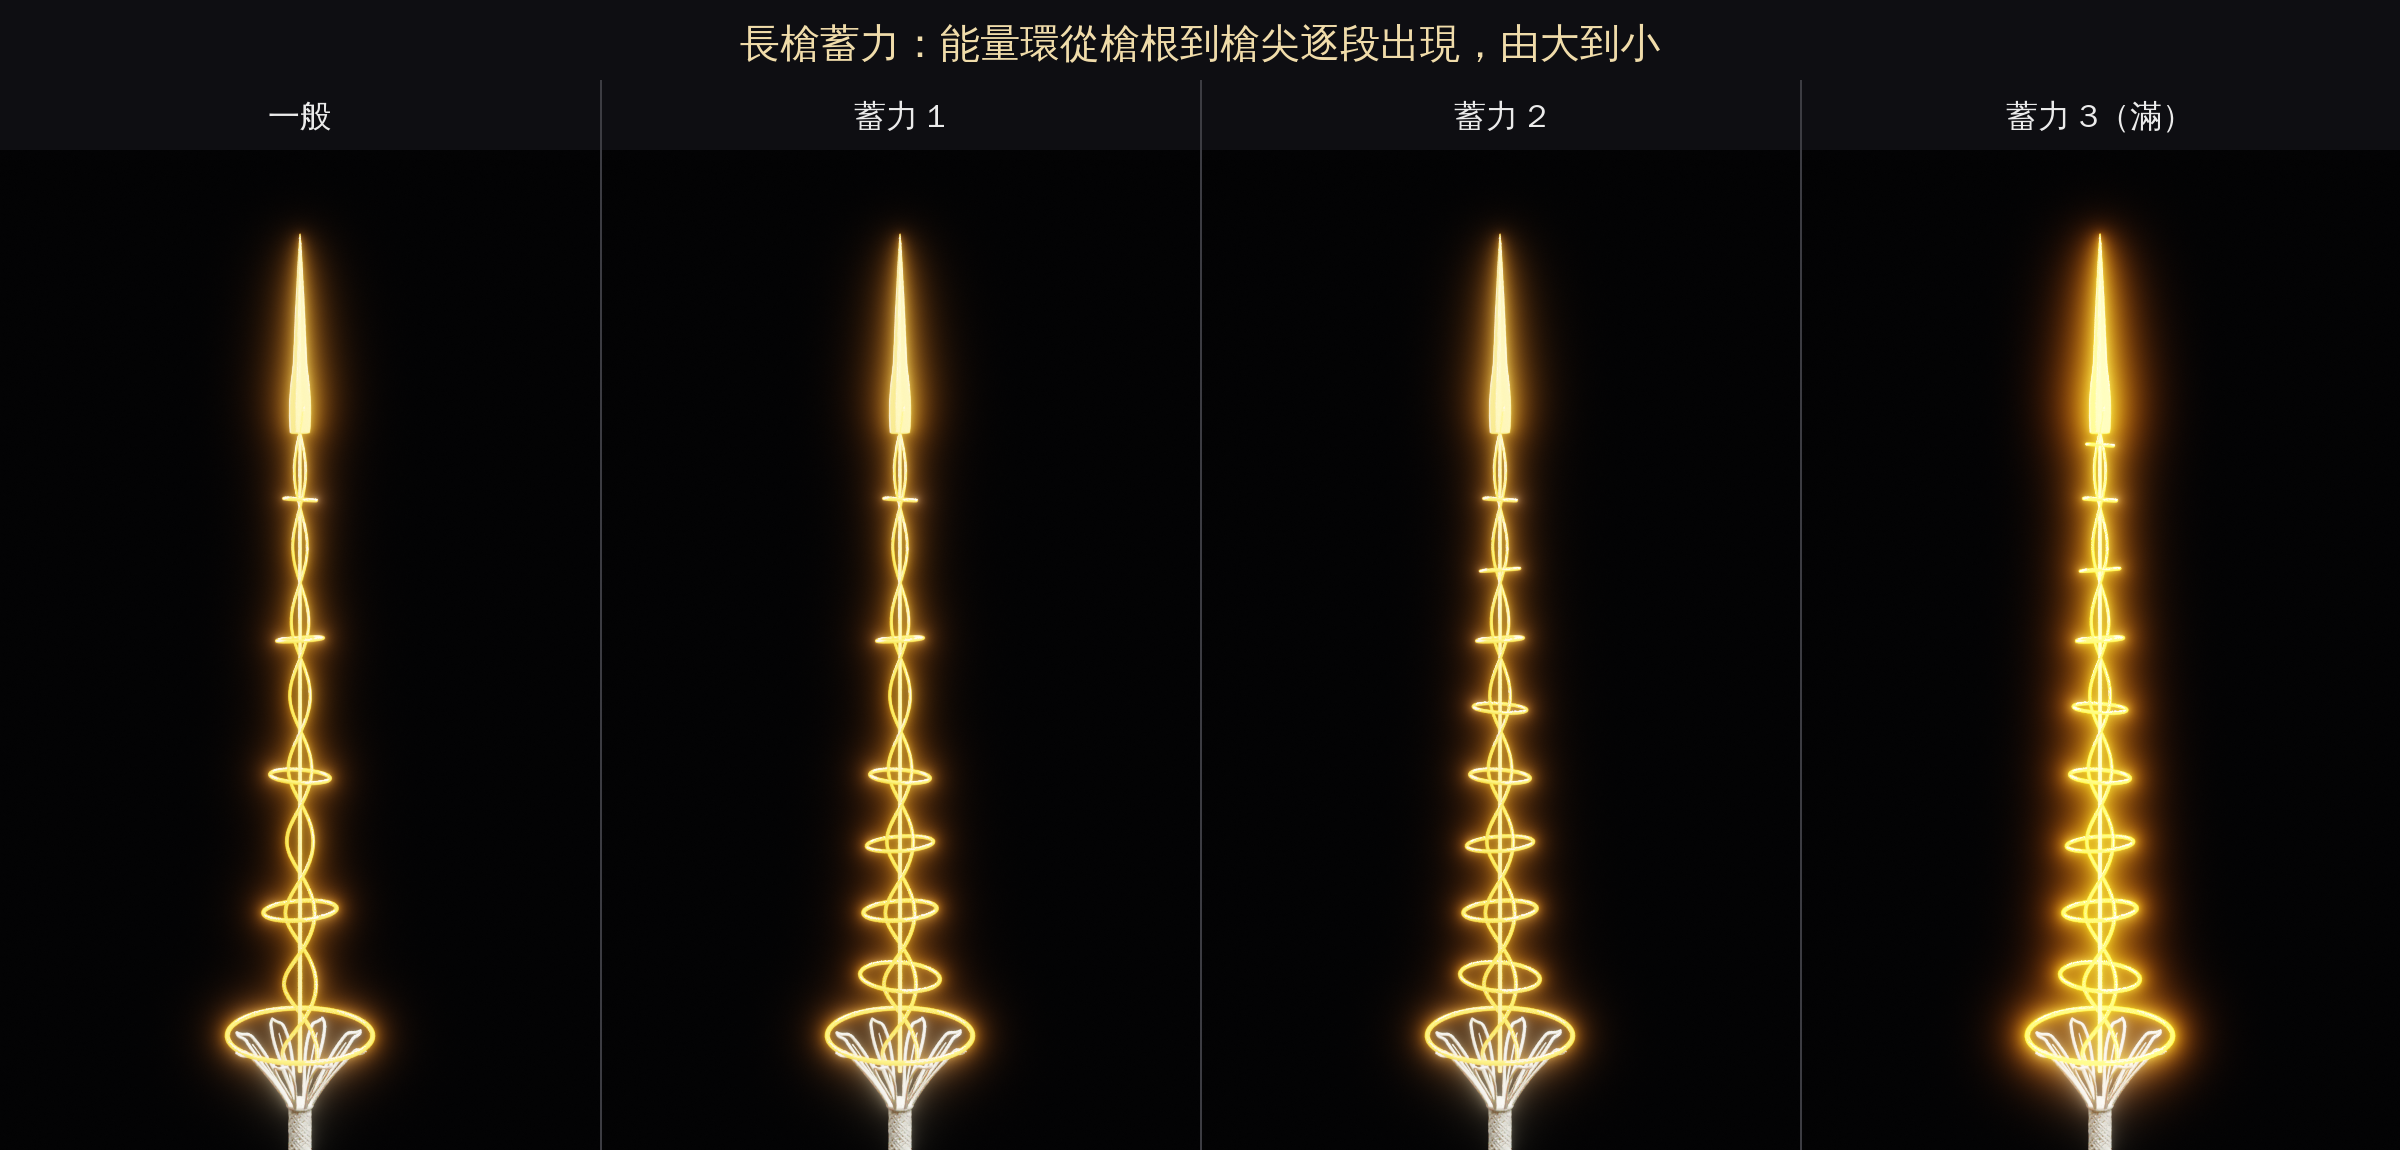
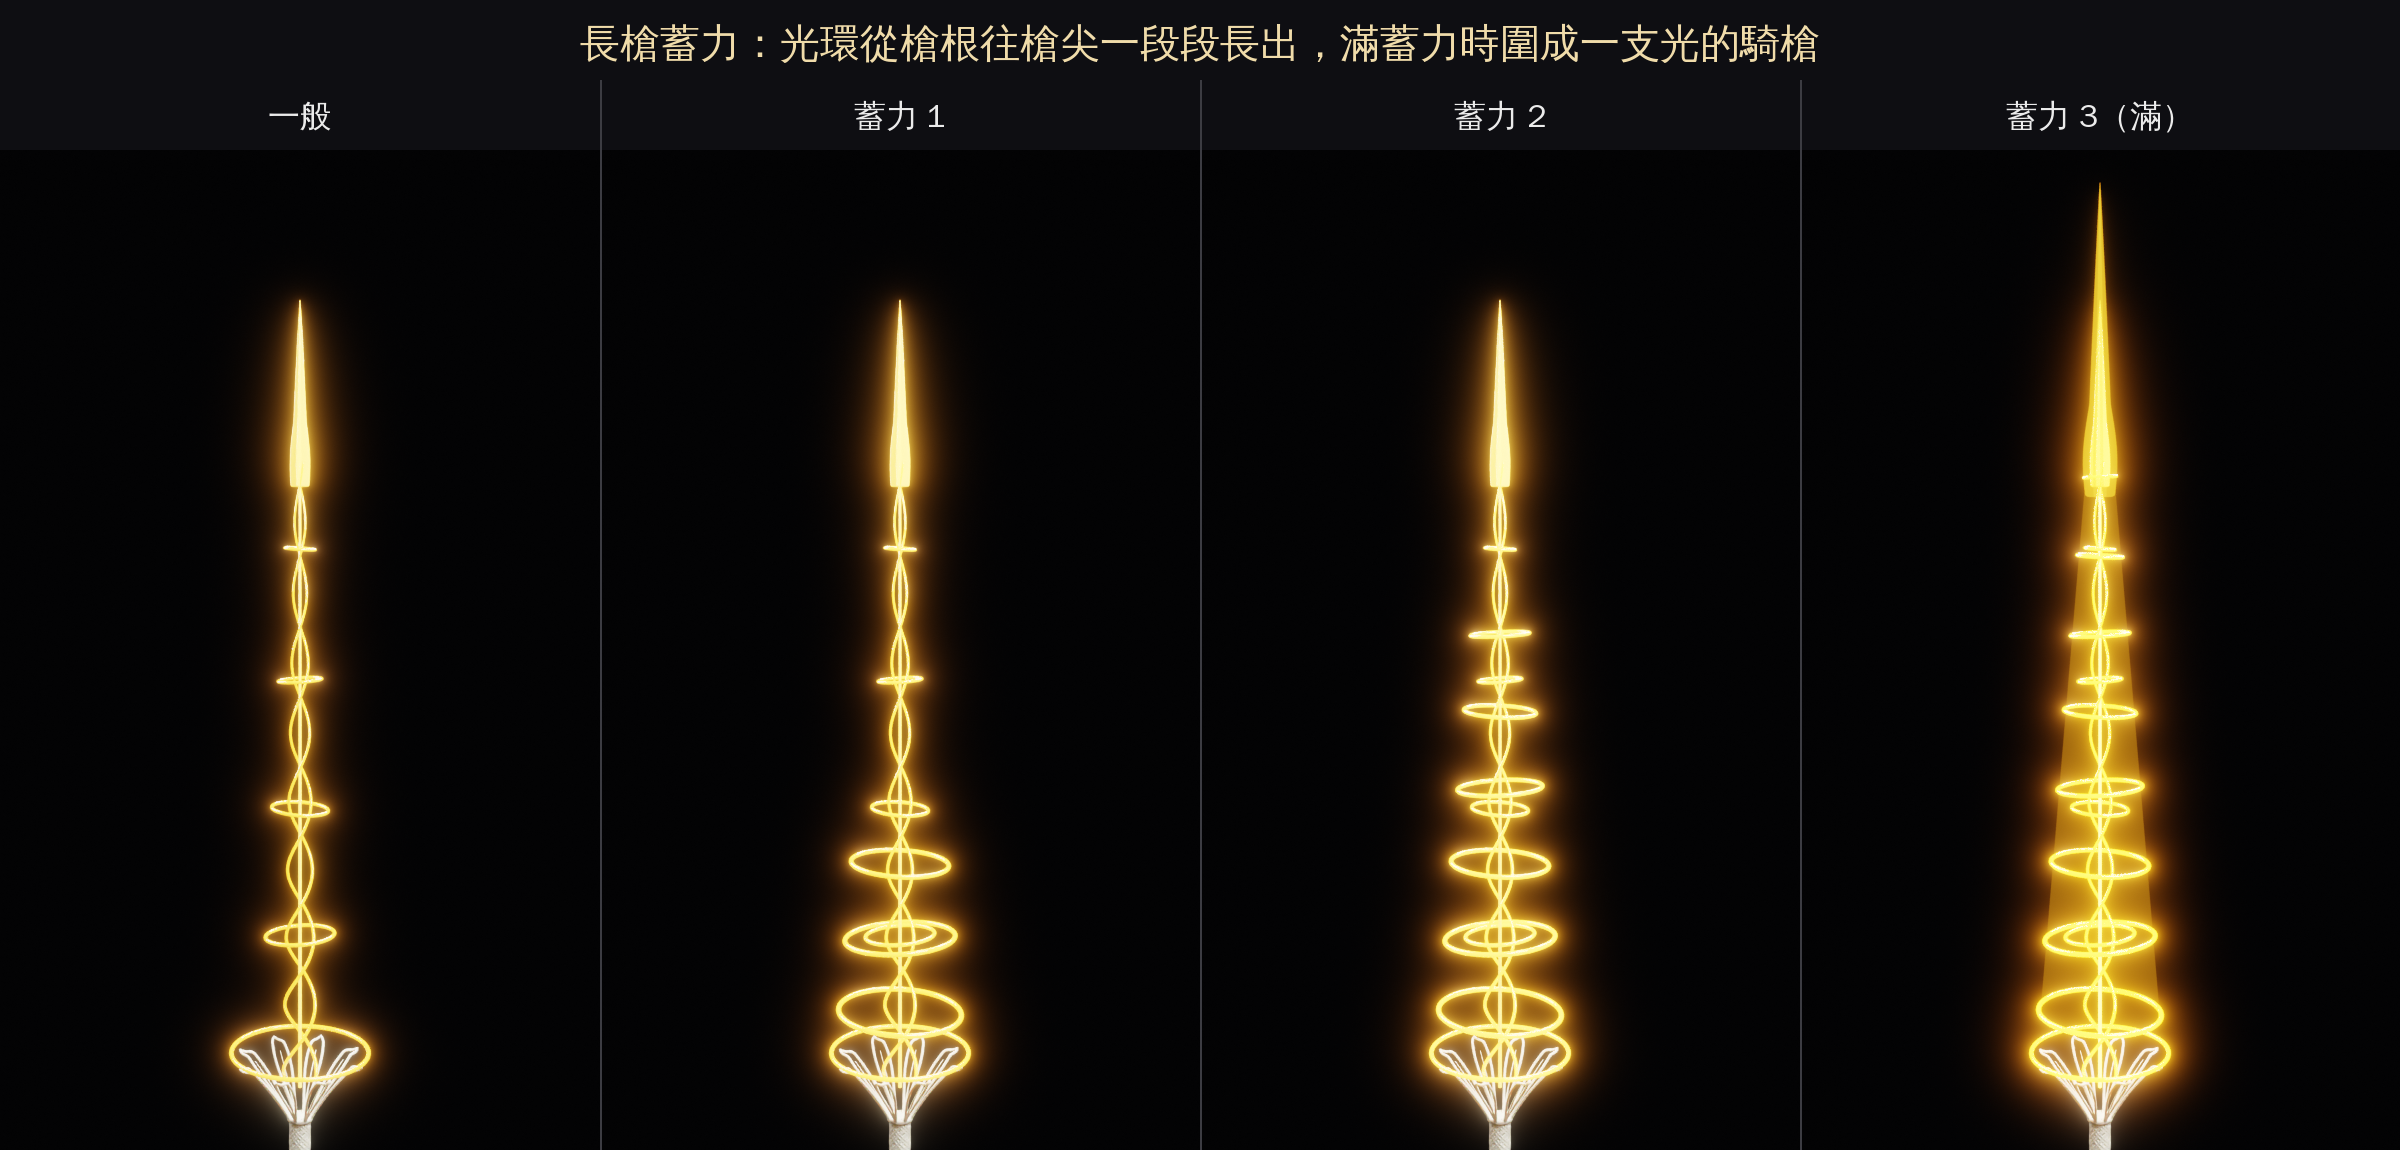
Lance charge: a cone of large rings grows root to tip, brighter each level, full charge becomes a lance of light
The first version only filled small rings in between the spear's own rings and
barely changed; the user wanted a sense of power while charging.

Claude-Session: https://claude.ai/code/session_01V7beVj5sW76yDfxRJh6Mw7

diff --git a/mods/miquella/prototypes/scripts/states.py b/mods/miquella/prototypes/scripts/states.py
@@ -8,7 +8,7 @@ Sets:
   great_sword_charge  normal (gold) / charge 1 (bright gold) / charge 2 (white light)
   dual_blades_demon   normal / splitting / demon mode (three blades) / archdemon (bright gold)
   hammer_charge       levels 0-3: more rings around the head, the caged sun brightens
-  lance_charge        levels 0-3: rings appear between the spear's rings, root to tip
+  lance_charge        levels 0-3: a cone of large rings grows root to tip, brighter each level
   gunlance_reload     rest / spring compressed (core charging) / spring rebounds
 
 Usage: python states.py <set> <out_dir>
@@ -23,6 +23,7 @@ from mathutils import Vector
 sys.path.insert(0, os.path.dirname(__file__))
 import common as c
 import motifs as m
+from motifs import V
 
 SET = sys.argv[1] if len(sys.argv) > 1 else "great_sword_charge"
 OUT = sys.argv[2] if len(sys.argv) > 2 else os.path.join("out", SET)
@@ -230,33 +231,54 @@ def hammer_charge():
 # ------------------------------------------------------------------ lance charge
 
 def lance_charge():
-    """New rings light up in the gaps of the spear's rail, root first, on the same taper
-    as the rail (large at the root, small at the point); at full charge the point flares."""
+    """Charging grows a cone of large rings from the vamplate toward the point, a few more
+    each level and brighter each level; at full charge a faint cone of light fills them and
+    the point flares out longer, so the whole lance reads as a jousting lance of light."""
     import arsenal
     c.reset_scene()
     mats = capture_build(arsenal.lance)
     m.glow_mode(mats)
     show([bpy.data.objects["EnergyShield"]], False)
 
-    def radius_at(z):                       # the rail runs 0.07 at z 0.72 to 0.03 at z 1.5
-        return 0.07 + (0.03 - 0.07) * (z - 0.72) / 0.78
-
-    new = []
-    for i, z in enumerate((0.59, 0.85, 1.11, 1.37, 1.6)):
-        new.append(m.halo(f"Charge_Ring_{i}", (0, 0, z), radius_at(z), 0.0036 - 0.0003 * i, (0, 0, 1),
-                          mats["light"], tilt_deg=-4 if i % 2 == 0 else 4))
-    target, distance = (0, 0, 1.22), 2.6
+    z0, z1, r0, r1, n = 0.56, 1.64, 0.125, 0.032, 8          # cone of rings, root -> point
+    rings = []
+    for k in range(n):
+        t = k / (n - 1)
+        rings.append(m.halo(f"Charge_Ring_{k}", (0, 0, z0 + (z1 - z0) * t), r0 + (r1 - r0) * t,
+                            0.0052 - 0.0022 * t, (0, 0, 1), mats["light"], tilt_deg=-3 if k % 2 == 0 else 3))
+    cone_mat = m.veil_material("Charge_Cone", 0.1, 1.2)
+    bpy.ops.mesh.primitive_cone_add(vertices=96, radius1=r0 - 0.004, radius2=r1 - 0.004, depth=z1 - z0,
+                                    end_fill_type="NOTHING", location=(0, 0, (z0 + z1) / 2))
+    cone = bpy.context.active_object
+    cone.name = "Charge_Cone"
+    cone.data.materials.append(cone_mat)
+    bpy.ops.object.shade_smooth()
+    flare_mat = m.veil_material("Point_Flare", 0.35, 2.0)
+    tip = 1.98
+    flare = []
+    for name, normal in (("Point_Flare_A", (0, 1, 0)), ("Point_Flare_B", (1, 0, 0))):
+        flare += m.path_blade(name, [V(0, 0, tip - 0.38), V(0, 0, tip + 0.22)], normal,
+                              lambda t: 0.085 * (1 - t) ** 0.9 * (0.75 + 0.25 * math.sin(math.pi * min(t / 0.3, 1))),
+                              lambda t: 0.02 * (1 - t), flare_mat)
+    target, distance = (0, 0, 1.3), 2.75
     stage_lights(target, distance)
-    levels = [("一般", 0), ("蓄力 1", 2), ("蓄力 2", 4), ("蓄力 3（滿）", 5)]
+    # label, rings shown, light strength (None = bright gold), cone and flare
+    levels = [("一般", 0, None, False), ("蓄力 1", 3, 4.0, False), ("蓄力 2", 6, 6.0, False),
+              ("蓄力 3（滿）", 8, "bright", True)]
+    base_blade = (c.PALETTE["blade_core"], c.PALETTE["blade_edge"], 2.2)
     paths = []
-    for i, (label, count) in enumerate(levels):
-        for k, objs in enumerate(new):
+    for i, (label, count, strength, full) in enumerate(levels):
+        for k, objs in enumerate(rings):
             show(objs, k < count)
-        if i == 3:
+        show([cone] + flare, full)
+        if strength == "bright":
             brighten(mats)
+        elif strength:
+            set_glow(mats["light"], c.PALETTE["glow"], strength)
+            set_blade(mats["blade"], base_blade[0], base_blade[1], 2.2 + 0.5 * i)
         paths += c.render_views(OUT, f"level{i}", target, distance, [("three_quarter", 20, 6)], lens=50)
     labelled_strip(paths, [lv[0] for lv in levels], os.path.join(OUT, "lance_charge.png"),
-                   "長槍蓄力：能量環從槍根到槍尖逐段出現，由大到小")
+                   "長槍蓄力：光環從槍根往槍尖一段段長出，滿蓄力時圍成一支光的騎槍")
 
 
 # ------------------------------------------------------------------ gunlance reload

diff --git a/mods/miquella/DESIGN.md b/mods/miquella/DESIGN.md
@@ -229,7 +229,7 @@
 | 雙劍鬼人化 | 一片光刃**分裂成三刃苦無**：兩片側刃從刀根淡入、往外斜滑出（先短後長） | 側刃是獨立零件，平常隱藏；鬼人化時打開、用 `Dissolve` 淡入，位置／角度由骨頭或逐格切換 |
 | 雙劍藍鬼人 | 鬼人化的三刃型態整把改**亮金** | 材質參數 |
 | 大錘蓄力 | 每一段在**兩端打擊面外各多一圈能量環**，一圈比一圈小、往外疊出去（蓄力越滿，錘頭的光越長）；籠裡的太陽越來越亮 | 每段的環是獨立材質槽，依段數打開＋`Dissolve` 淡入；光球改 `Emissive_Intensity` |
-| 長槍蓄力 | 槍身原本的光環之間，**從槍根到槍尖逐段**亮起新的光環，大小跟著原本的漸縮（根大尖小）；滿蓄力槍尖變亮金 | 同大錘：每個環一個材質槽，依序打開 |
+| 長槍蓄力 | 平時維持輕裝。蓄力時**比槍身大很多的光環從護手往槍尖一段段長出**（根大尖小，排成錐形），每一段都更亮；滿蓄力時錐形裡浮出一層淡光膜、槍尖往前多伸出一截光刃，整支變成**光的騎槍**（使用者要求要有力量感，第一版只在原本的環之間補小環，變化太小被否決） | 每個環、光膜、槍尖延伸各一個材質槽，依序打開＋`Dissolve` 淡入；亮度改發光參數 |
 | 銃槍填彈 | 綁住光肋的**象牙彈簧往槍根壓縮**、根部能量核心充能變亮變大 → 放開時**彈回、略伸過頭再復位** | 彈簧每一圈綁一根骨頭，壓縮＝骨頭往根部移（不會把彈簧壓扁）；核心改發光參數 |
 
 - 「一片刀刃連續變形成三片」做不到（遊戲模型不能任意變形），**分裂＋淡入＋滑出**是可以做到的版本
